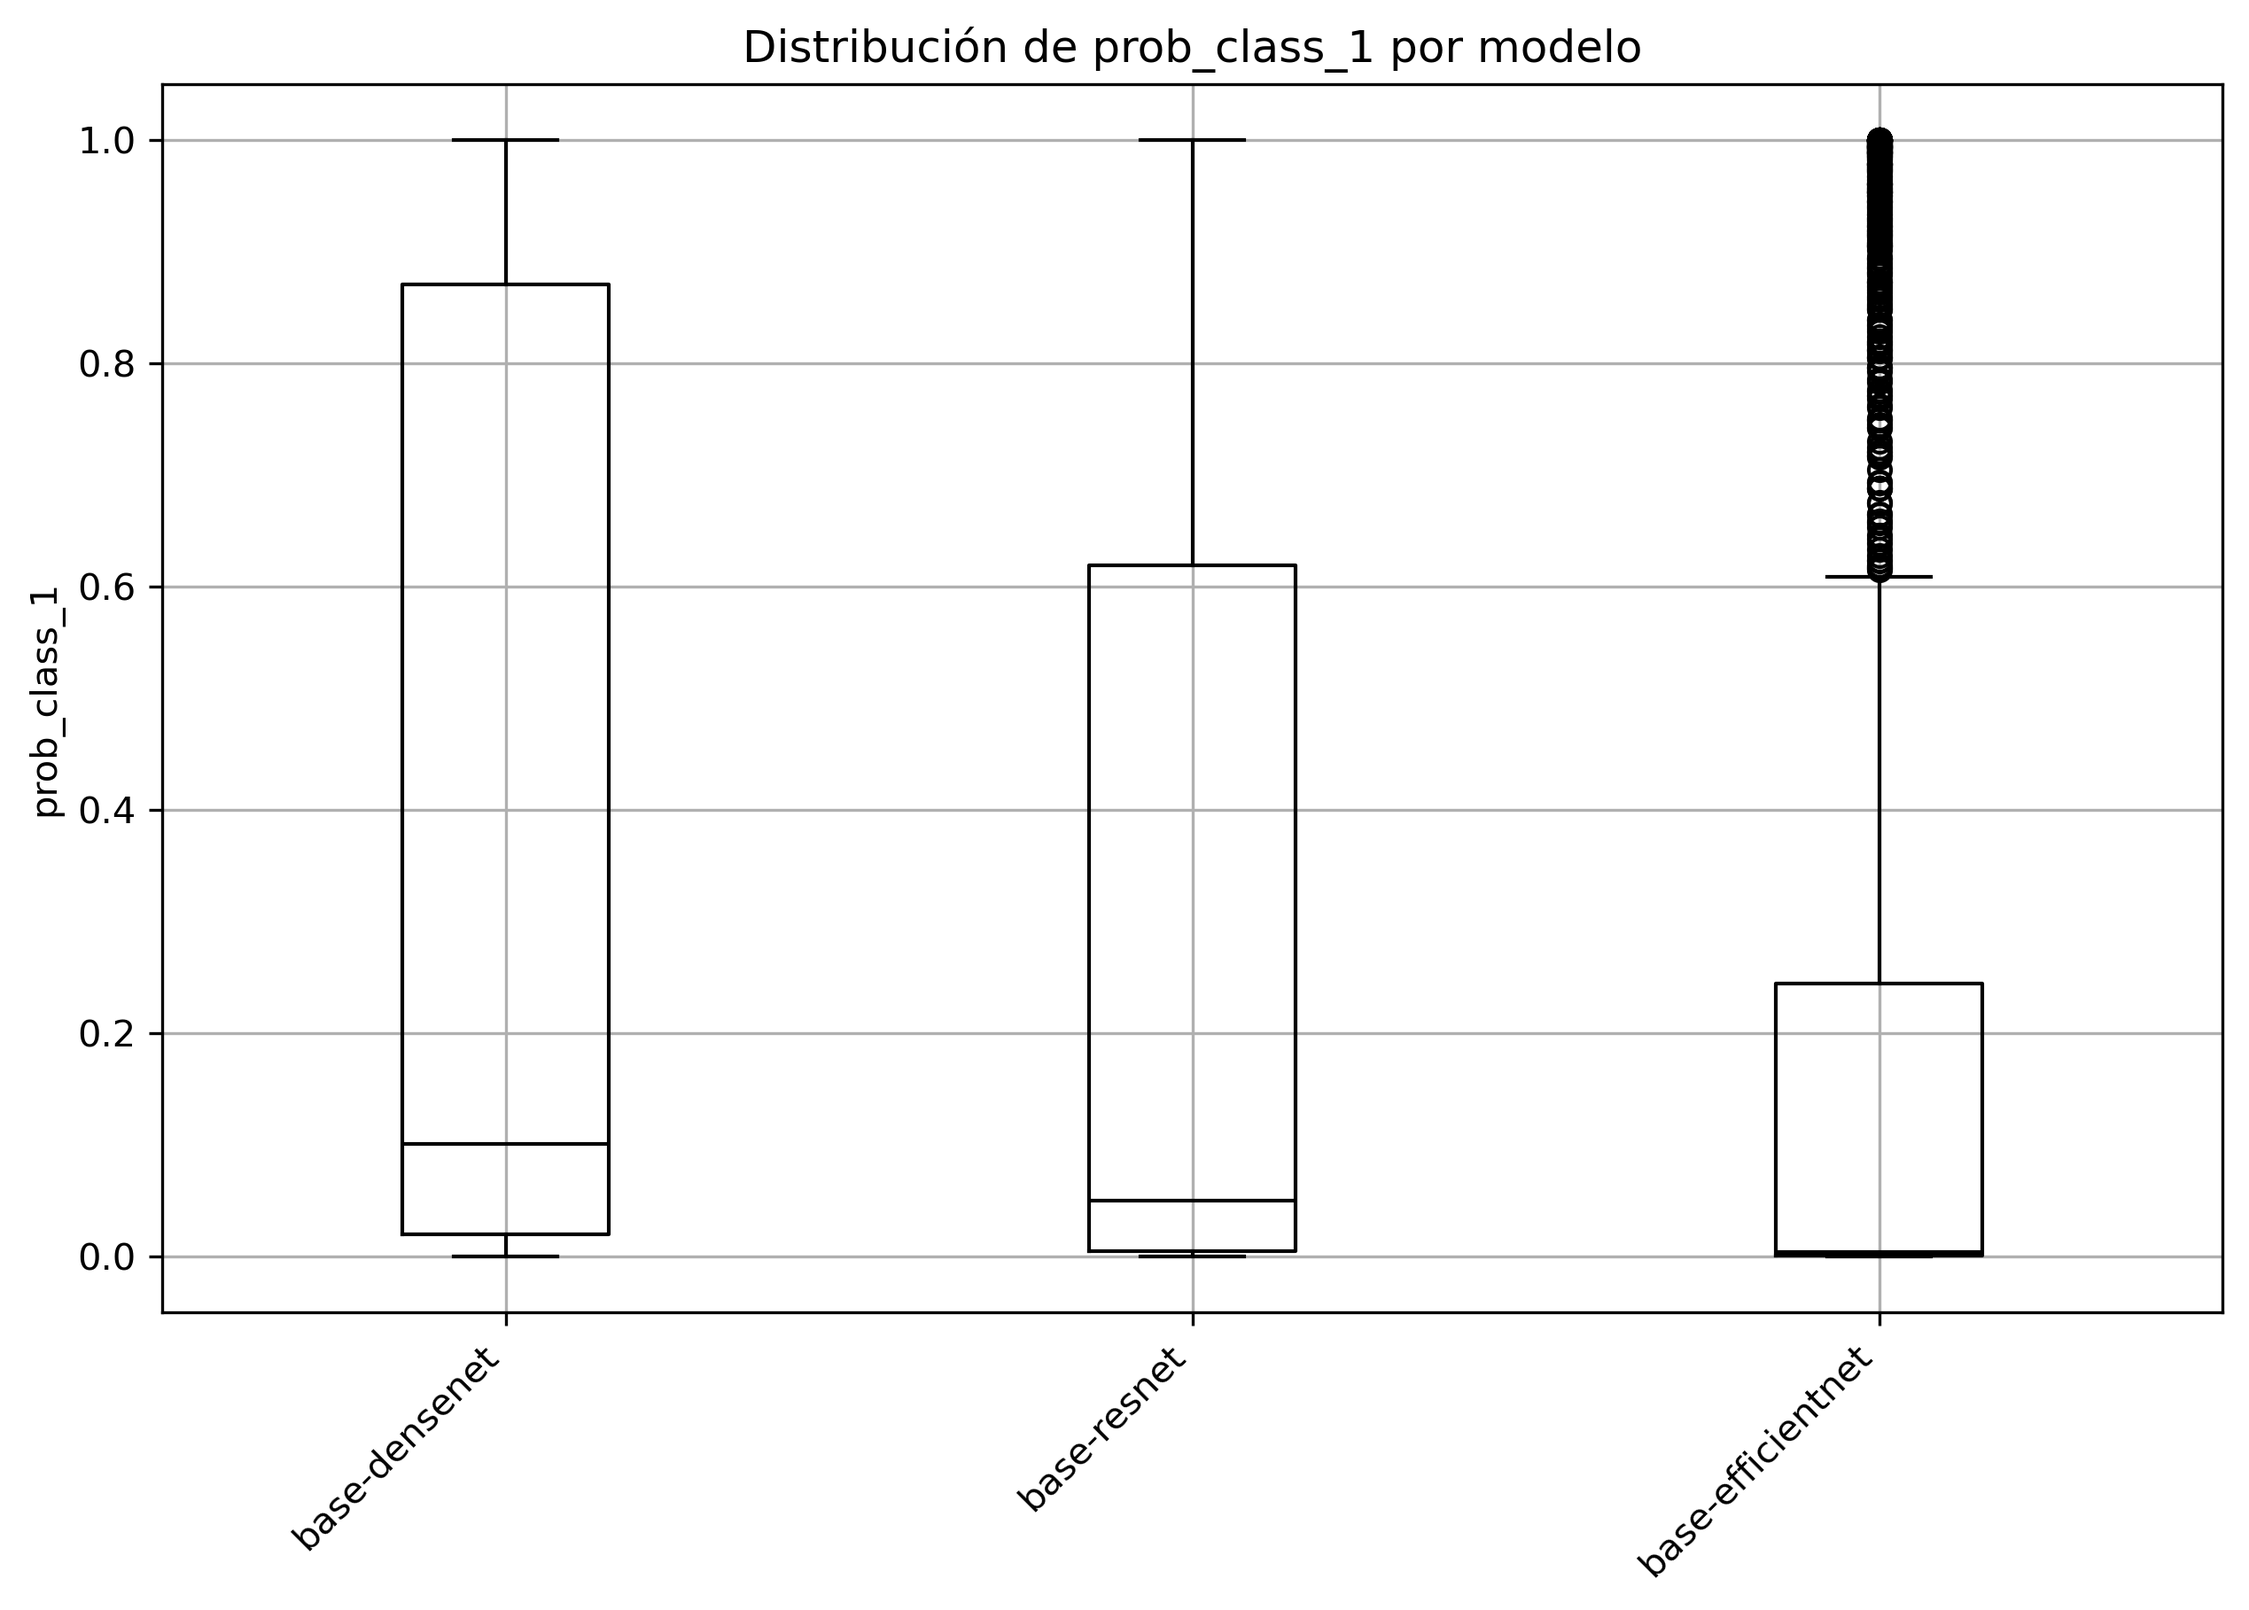
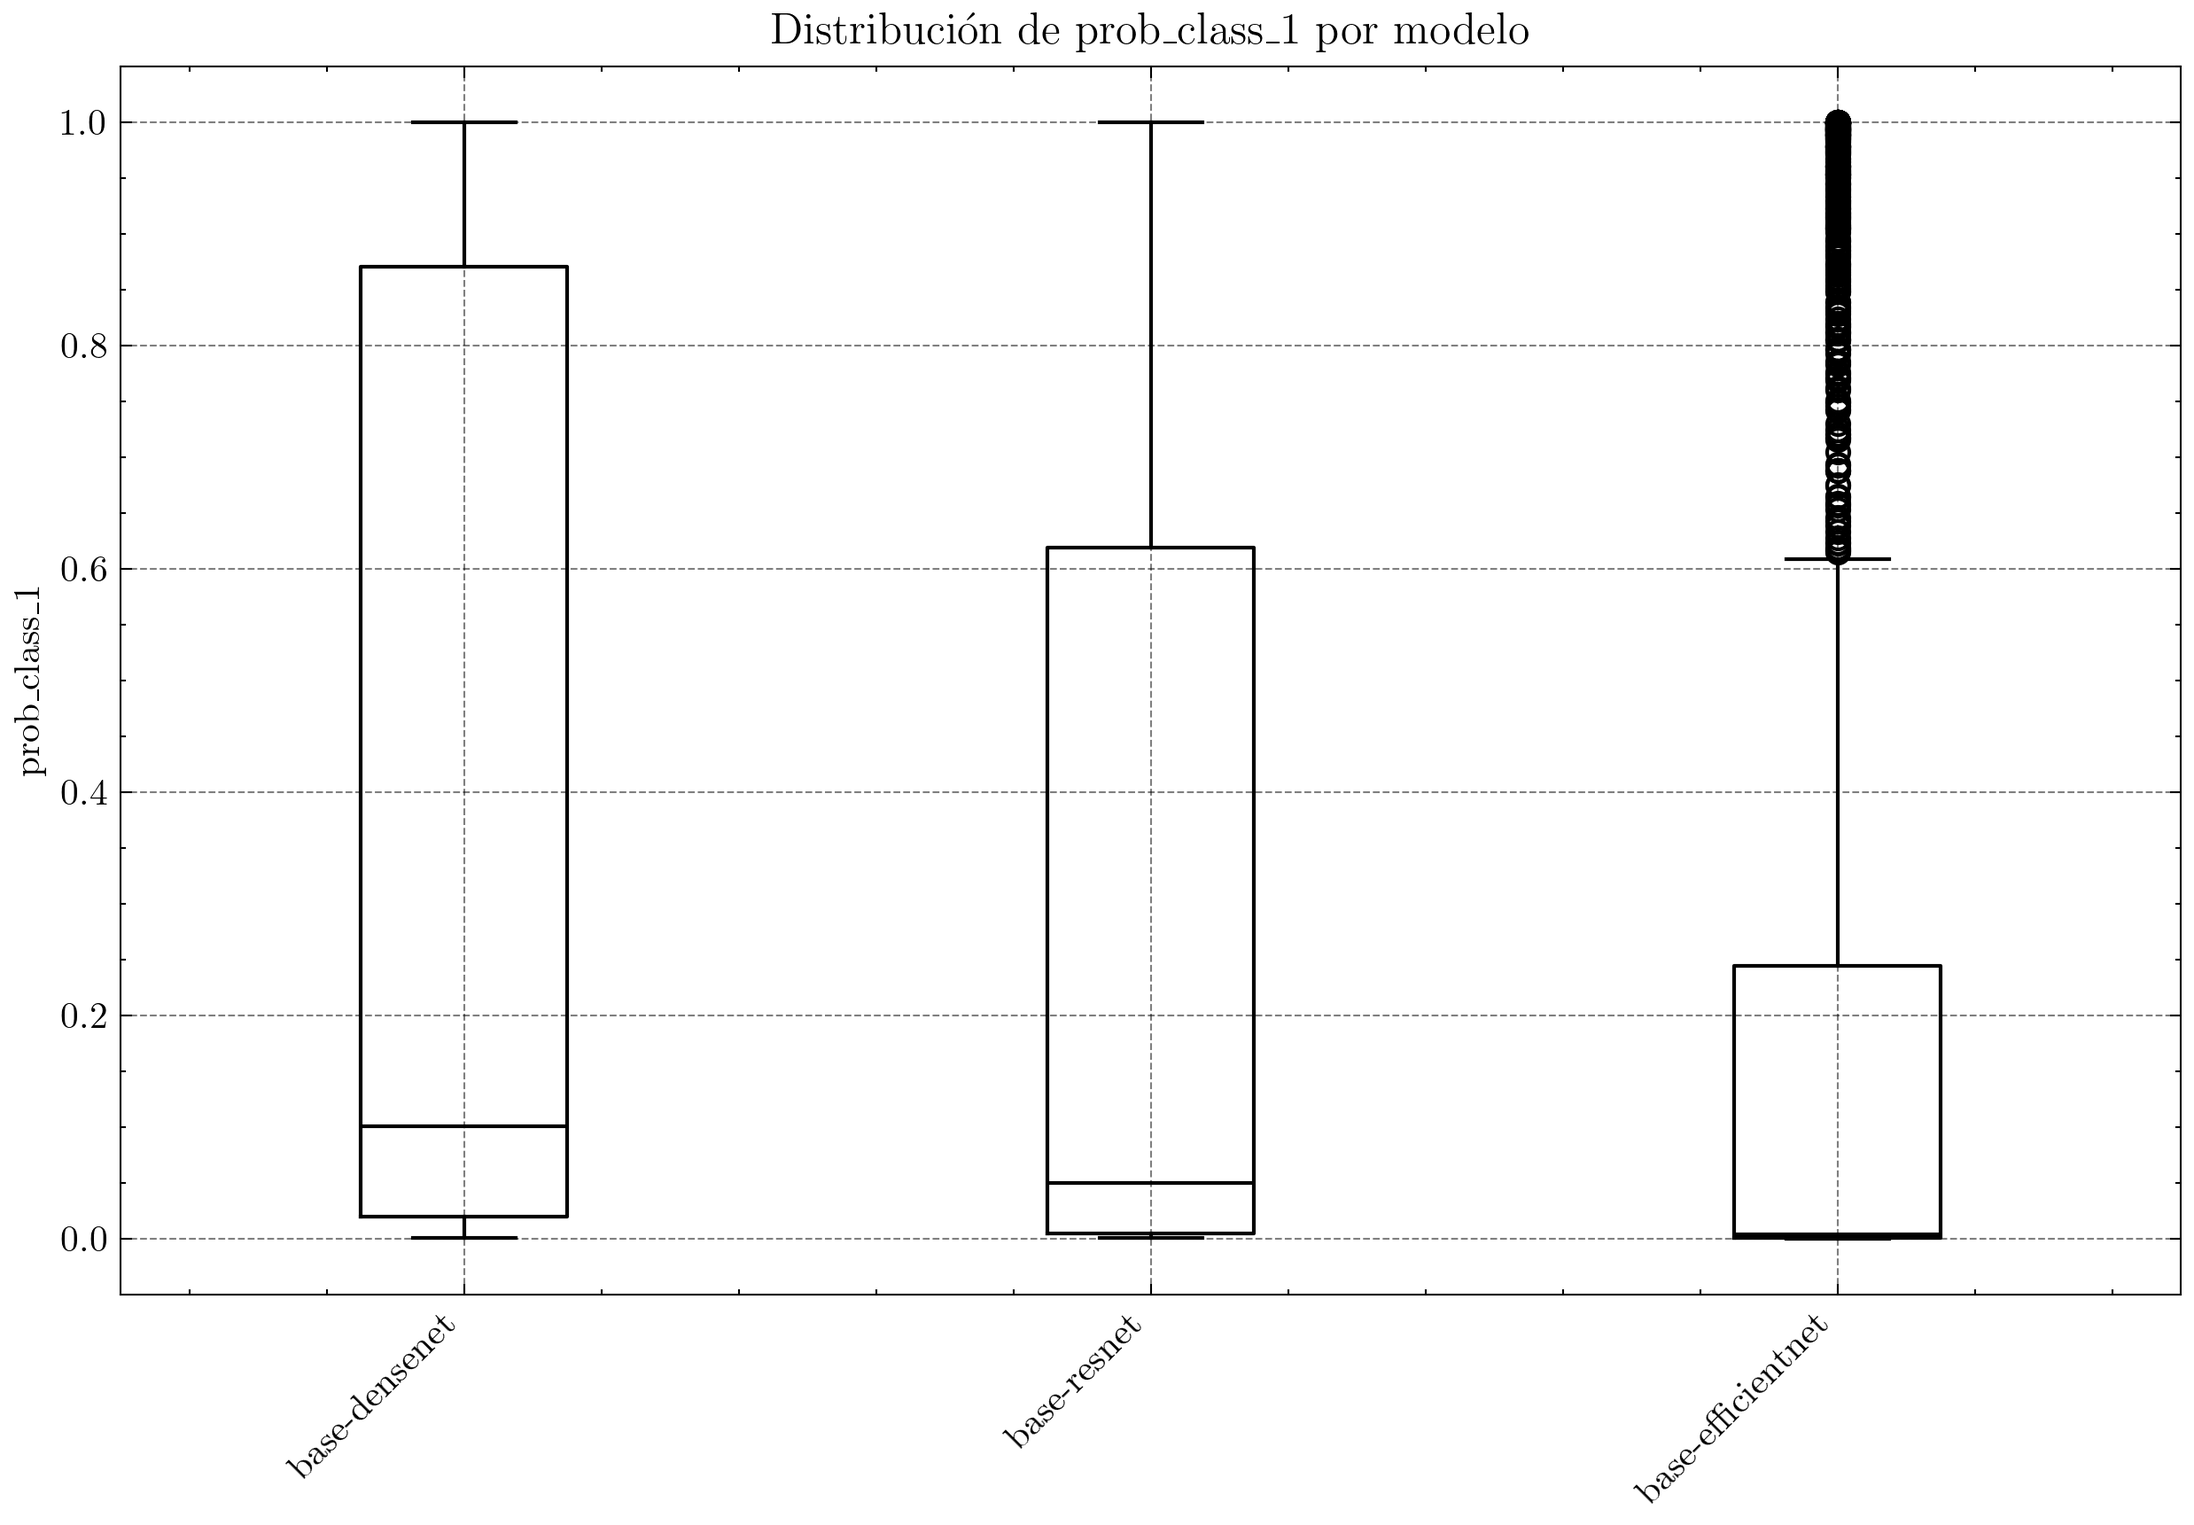
DL: modificando detalles visualización

diff --git a/src/deep_learning/analyse_results/predict_&_analyse_probs/.ipynb_checkpoints/analyse_predictions-checkpoint.py b/src/deep_learning/analyse_results/predict_&_analyse_probs/.ipynb_checkpoints/analyse_predictions-checkpoint.py
@@ -5,10 +5,14 @@ import numpy as np
 import pandas as pd
 from scipy.stats import friedmanchisquare, wilcoxon
 from statsmodels.stats.multitest import multipletests
+
 import matplotlib.pyplot as plt
 import matplotlib
 matplotlib.use('Agg')
 import scienceplots
+
+plt.style.use(['science', 'grid'])
+dpi = 300
 
 def perform_p_value_analysis(
     df: pd.DataFrame,
@@ -112,18 +116,25 @@ def perform_p_value_analysis(
     plt.ylabel(metric_col)
     plt.xticks(rotation=45, ha='right')
     boxplot_path = os.path.join(output_dir, f"boxplot_{metric_col}.png")
-    plt.savefig(boxplot_path, dpi=300, bbox_inches='tight')
+    plt.savefig(boxplot_path, dpi=dpi, bbox_inches='tight')
     plt.close()
     print(f"  → Boxplot guardado en: {boxplot_path}")
 
     # --- 7. Heatmap de p‑values ---
     if matriz_p is not None:
         fig, ax = plt.subplots(figsize=(8, 6))
-        cax = ax.imshow(matriz_p, interpolation='nearest', aspect='auto', cmap='viridis')
+        ax.grid(False)
+        cax = ax.imshow(matriz_p, interpolation='nearest', aspect='auto', cmap='cividis')
         ax.set_xticks(np.arange(len(modelos)))
         ax.set_yticks(np.arange(len(modelos)))
         ax.set_xticklabels(modelos, rotation=45, ha='right')
         ax.set_yticklabels(modelos)
+
+        ax.set_xticks(np.arange(-0.5, len(modelos), 1), minor=True)
+        ax.set_yticks(np.arange(-0.5, len(modelos), 1), minor=True)
+        ax.grid(which='minor', color='black', linestyle='--', linewidth=1)
+        ax.tick_params(which='minor', bottom=False, left=False)
+        
         for i in range(len(modelos)):
             for j in range(len(modelos)):
                 color = 'white' if matriz_p[i, j] < alpha else 'black'
@@ -131,7 +142,7 @@ def perform_p_value_analysis(
         fig.colorbar(cax, ax=ax, fraction=0.046, pad=0.04)
         plt.tight_layout()
         heatmap_path = os.path.join(output_dir, f"heatmap_pvalues_{metric_col}.png")
-        plt.savefig(heatmap_path, dpi=300)
+        plt.savefig(heatmap_path, dpi=dpi)
         plt.close()
         print(f"  → Heatmap p‑values guardado en: {heatmap_path}")
 

diff --git a/src/deep_learning/analyse_results/predict_&_analyse_probs/analyse_predictions.py b/src/deep_learning/analyse_results/predict_&_analyse_probs/analyse_predictions.py
@@ -5,10 +5,14 @@ import numpy as np
 import pandas as pd
 from scipy.stats import friedmanchisquare, wilcoxon
 from statsmodels.stats.multitest import multipletests
+
 import matplotlib.pyplot as plt
 import matplotlib
 matplotlib.use('Agg')
 import scienceplots
+
+plt.style.use(['science', 'grid'])
+dpi = 300
 
 def perform_p_value_analysis(
     df: pd.DataFrame,
@@ -112,18 +116,25 @@ def perform_p_value_analysis(
     plt.ylabel(metric_col)
     plt.xticks(rotation=45, ha='right')
     boxplot_path = os.path.join(output_dir, f"boxplot_{metric_col}.png")
-    plt.savefig(boxplot_path, dpi=300, bbox_inches='tight')
+    plt.savefig(boxplot_path, dpi=dpi, bbox_inches='tight')
     plt.close()
     print(f"  → Boxplot guardado en: {boxplot_path}")
 
     # --- 7. Heatmap de p‑values ---
     if matriz_p is not None:
         fig, ax = plt.subplots(figsize=(8, 6))
-        cax = ax.imshow(matriz_p, interpolation='nearest', aspect='auto', cmap='viridis')
+        ax.grid(False)
+        cax = ax.imshow(matriz_p, interpolation='nearest', aspect='auto', cmap='cividis')
         ax.set_xticks(np.arange(len(modelos)))
         ax.set_yticks(np.arange(len(modelos)))
         ax.set_xticklabels(modelos, rotation=45, ha='right')
         ax.set_yticklabels(modelos)
+
+        ax.set_xticks(np.arange(-0.5, len(modelos), 1), minor=True)
+        ax.set_yticks(np.arange(-0.5, len(modelos), 1), minor=True)
+        ax.grid(which='minor', color='black', linestyle='--', linewidth=1)
+        ax.tick_params(which='minor', bottom=False, left=False)
+        
         for i in range(len(modelos)):
             for j in range(len(modelos)):
                 color = 'white' if matriz_p[i, j] < alpha else 'black'
@@ -131,7 +142,7 @@ def perform_p_value_analysis(
         fig.colorbar(cax, ax=ax, fraction=0.046, pad=0.04)
         plt.tight_layout()
         heatmap_path = os.path.join(output_dir, f"heatmap_pvalues_{metric_col}.png")
-        plt.savefig(heatmap_path, dpi=300)
+        plt.savefig(heatmap_path, dpi=dpi)
         plt.close()
         print(f"  → Heatmap p‑values guardado en: {heatmap_path}")
 
